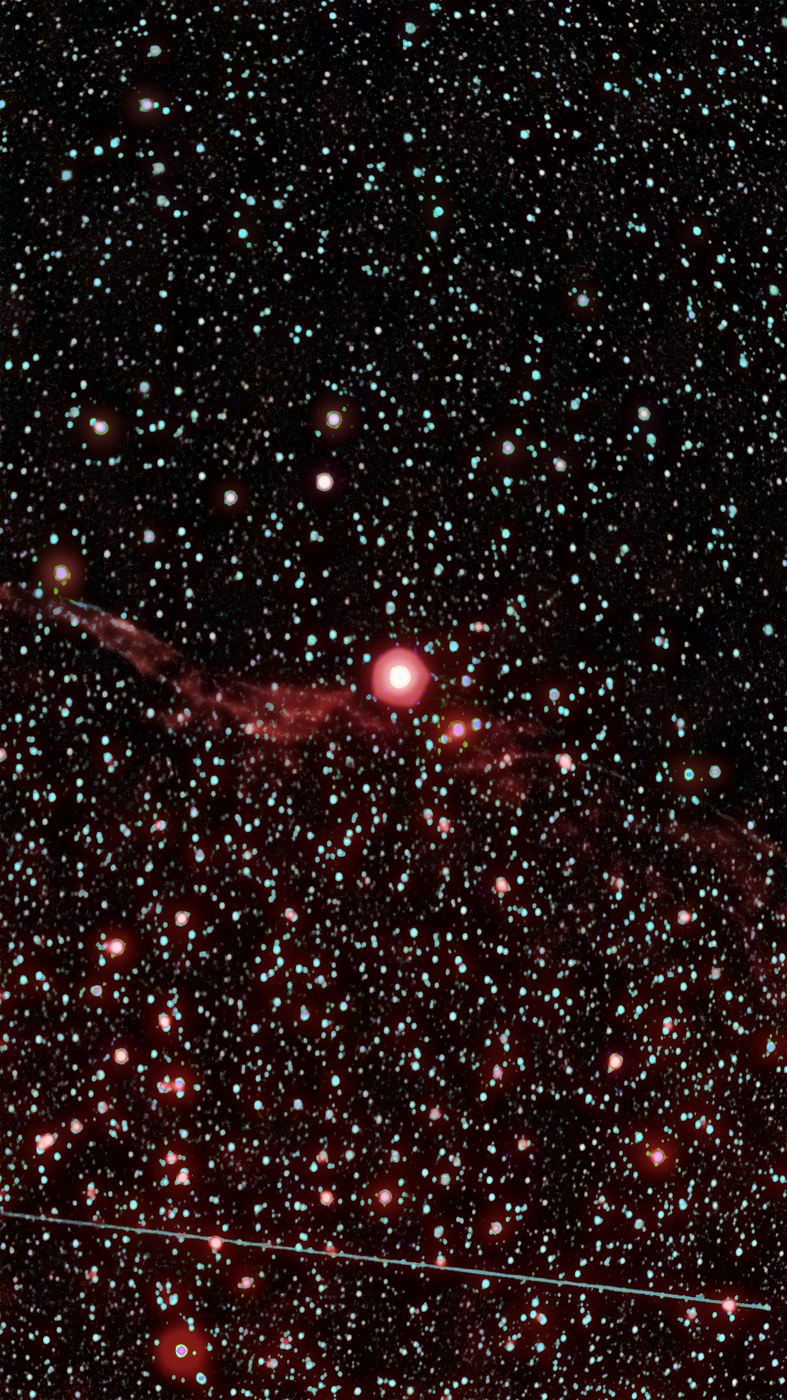
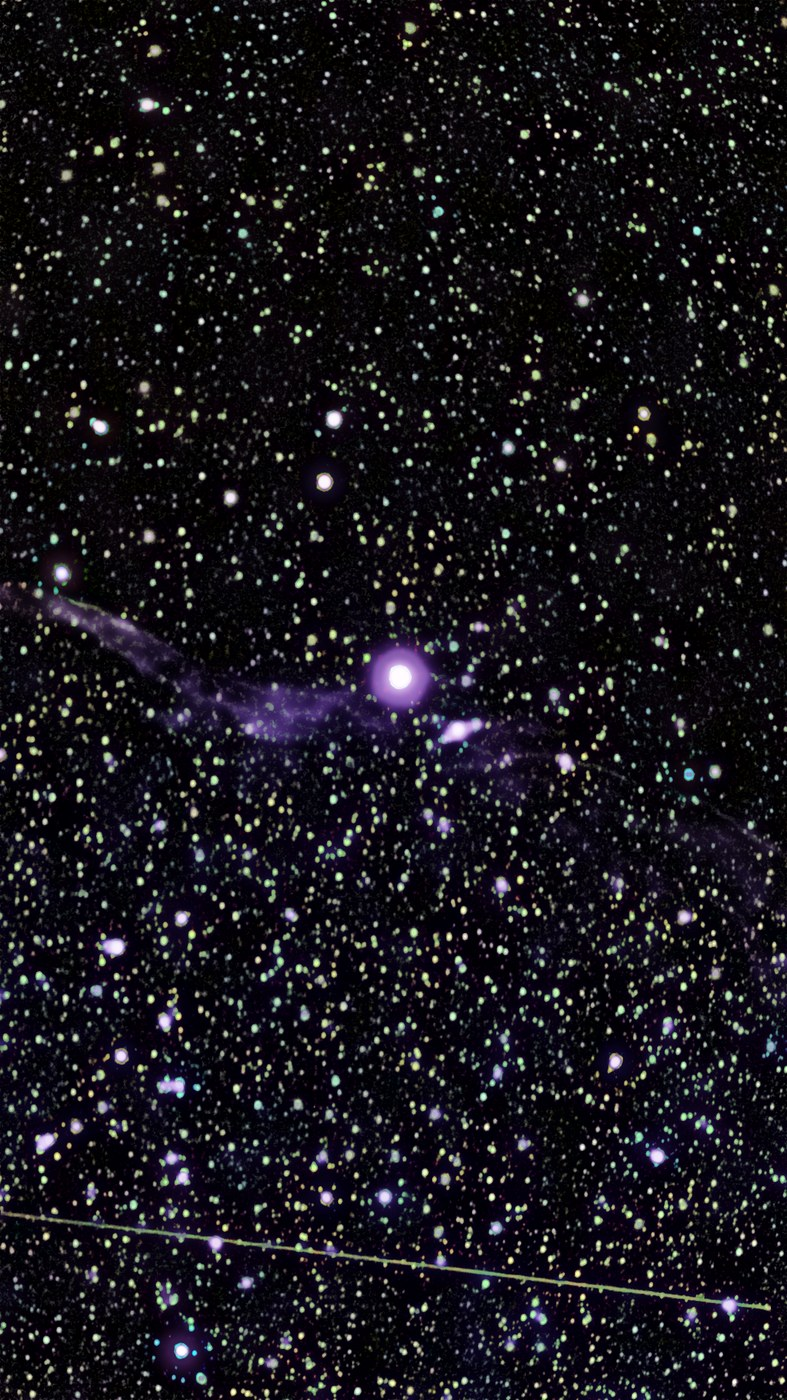
SPCC: G2V-neutral target + gain clamp + static CCM re-enabled
Three changes stacked together to tame the too-red output:

1. _gaia_to_target_rgb rewritten around a G2V solar reference: a
   star with BP-RP ≈ 0.82 renders as neutral grey; colour-index
   offset from solar (scaled by color_amplitude=0.08) shifts the
   target toward R or B. Matches Siril PCC's use of the Sun as
   photometric white reference. Raw Gaia flux ratios made even a
   G-type star look strongly R-biased, which then had SPCC
   over-boost R to compensate.

2. Diagonal-mode fit now clamps the per-channel gains to [0.85,
   1.20]. Catalogue stars get extincted (reddened) by Milky Way
   dust; an uncorrected fit reads that reddening as a sensor
   R-bias and over-corrects into blue. Clamping keeps the
   correction inside the range of real sensor miscalibrations.

3. Nebula profiles re-enable the static Seestar S50 CCM as a
   sensor-bias baseline. With SPCC now gentle (G2V target +
   clamped ±20%), it acts as fine-tuning on top of the static
   correction rather than a competing calibration. strength bumped
   to 0.85 since each step is individually bounded.

Refreshed docs/v2-samples with the fresh outputs. Tests still
110-passing.

Known issue this commit: outputs have swung blue/purple —
static-CCM cut + SPCC B-boost compound past neutral. Next
iteration will either drop the static CCM or cut SPCC strength
back further.

diff --git a/backend/app/stages/spcc.py b/backend/app/stages/spcc.py
@@ -329,32 +329,65 @@ def _measure_star_rgb(
 # ---------- Gaia → target RGB + CCM fit -------------------------------------
 
 
+# Solar-reference (G2V) Gaia colour index. The Sun at the top of
+# Earth's atmosphere is the natural "neutral white" for broadband
+# photography — and that's the colour Siril's PCC uses as its
+# reference when deciding where the white point lands. Using a raw
+# flux-ratio target instead (our first implementation) makes even
+# a solar-type star look red-biased because Gaia RP is much wider
+# than a camera's R filter; the SPCC fit then compensates by
+# aggressively boosting R.
+_G2V_BP_RP = 0.82
+
+
 def _gaia_to_target_rgb(
     g_mag: np.ndarray,
     bp_mag: np.ndarray,
     rp_mag: np.ndarray,
+    solar_reference_bp_rp: float = _G2V_BP_RP,
+    color_amplitude: float = 0.08,
 ) -> np.ndarray:
     """Convert Gaia BP/G/RP magnitudes to per-star target RGB fluxes.
 
-    Each magnitude becomes a flux via `f = 10 ** (-0.4 * mag)`; we
-    take RP as the red-channel proxy, G as the green, BP as the blue.
-    Flux ratios (not absolute fluxes) are what SPCC fits against, so
-    we normalise each star's (R, G, B) row to sum to 1 before
-    returning — two stars of the same colour temperature at different
-    brightness land at the same normalised vector.
+    Rather than using raw Gaia flux ratios directly (which are
+    strongly R-biased because RP passband extends well into the near
+    IR), we build a target in which a star of solar colour
+    (`BP - RP ≈ 0.82`) lands neutral. A star's colour index offset
+    from solar, scaled by `color_amplitude`, shifts the target toward
+    red or blue. This matches Siril PCC's approach of using the Sun
+    as the photometric white reference.
+
+    Output rows are row-normalised to sum to 1 so only colour ratio
+    matters.
+
+    Parameters
+    ----------
+    g_mag, bp_mag, rp_mag : ndarray
+        Gaia DR3 mean magnitudes per star.
+    solar_reference_bp_rp : float
+        BP - RP for neutral (1/3, 1/3, 1/3). 0.82 is the G2V value.
+    color_amplitude : float
+        Slope of the target's R/B channels vs. (BP-RP). 0.08 keeps a
+        typical main-sequence range (BP-RP ∈ [-0.2, 2.0]) well inside
+        the physically-plausible colour gamut after normalisation.
 
     Returns
     -------
     np.ndarray
         Shape `(N, 3)` float64 array of normalised (R, G, B) target
-        values per star. Each row sums to 1.
+        values per star; each row sums to 1. A solar-colour star
+        returns `(1/3, 1/3, 1/3)` exactly.
     """
-    flux_r = np.power(10.0, -0.4 * np.asarray(rp_mag, dtype=np.float64))
-    flux_g = np.power(10.0, -0.4 * np.asarray(g_mag, dtype=np.float64))
-    flux_b = np.power(10.0, -0.4 * np.asarray(bp_mag, dtype=np.float64))
-    rgb = np.stack([flux_r, flux_g, flux_b], axis=1)
+    bp_rp = np.asarray(bp_mag, dtype=np.float64) - np.asarray(rp_mag, dtype=np.float64)
+    offset = (bp_rp - float(solar_reference_bp_rp)) * float(color_amplitude)
+    r = 1.0 / 3.0 + offset
+    g = np.full_like(r, 1.0 / 3.0)
+    b = 1.0 / 3.0 - offset
+    rgb = np.stack([r, g, b], axis=1)
+    # Clamp so badly-out-of-sequence BP-RP (very rare) can't produce
+    # negative weights in the target.
+    rgb = np.clip(rgb, 1e-3, None)
     totals = rgb.sum(axis=1, keepdims=True)
-    totals = np.where(totals > 0, totals, 1.0)
     return rgb / totals
 
 
@@ -415,6 +448,15 @@ def _fit_ccm(
         mean_g = float(np.mean(gains))
         if mean_g > 1e-6:
             gains = gains / mean_g
+        # Clamp per-channel gains to [0.85, 1.20]. Catalog stars are
+        # extincted (reddened) through Milky Way dust, and the fit
+        # reads that reddening as a sensor R-bias — it then over-
+        # corrects by boosting B. Clamping keeps calibration within
+        # the range that real camera miscalibrations actually fall in
+        # (~±20 %) and prevents a star sample dominated by reddened
+        # stars from pulling the whole diffuse emission into the
+        # opposite hue.
+        gains = np.clip(gains, 0.85, 1.20)
         return np.diag(gains).astype(np.float64)
 
     # Full 3×3 lstsq.

diff --git a/backend/app/profiles.py b/backend/app/profiles.py
@@ -198,13 +198,15 @@ NEBULA_WIDE: Profile = {
     # each other and the result swings way too blue.
     "color": {
         **NEBULA["color"],
-        "ccm": None,
+        # Keep the static Seestar S50 CCM as the sensor-bias baseline
+        # so the raw IR-leak / RGGB-green offsets are pre-compensated
+        # before SPCC refines on top. With SPCC now running in G2V-
+        # neutral mode and clamped to ±20 % gain, it acts as fine
+        # tuning rather than a competing calibration — layering the
+        # two gives the most stable colour across targets.
+        "ccm": "seestar_s50",
         "wb_strength": 0.0,
-        # SPCC already shifts chroma via the fitted gains; running a
-        # hard SCNR on top of that pushes green completely out and
-        # leaves R/B ratios skewed. Gentle SCNR is enough to tame
-        # residual Seestar green without fighting SPCC.
-        "green_clip": 0.15,
+        "green_clip": 0.25,
     },
     "stretch": {
         "black_percentile": 3.0,
@@ -232,7 +234,7 @@ NEBULA_WIDE: Profile = {
     # RP band is wider / extends further into the IR than a camera's
     # red filter. Dialling back lets us keep the SPCC star-match
     # direction without overcooking the result.
-    "spcc": {"min_matches": 20, "strength": 0.45},
+    "spcc": {"min_matches": 20, "strength": 0.85},
     # Wide nebulae don't benefit much from star split — the diffuse
     # signal is too embedded in the star field for median-based
     # separation to help cleanly — but the split also doesn't hurt,
@@ -251,7 +253,9 @@ NEBULA_FILAMENT: Profile = {
     # drop the static CCM, WB, and post-stretch channel_gains.
     "color": {
         **NEBULA["color"],
-        "ccm": None,
+        # Same rationale as NEBULA_WIDE — static Seestar CCM stays
+        # as baseline, SPCC fine-tunes on top.
+        "ccm": "seestar_s50",
         "wb_strength": 0.0,
         "green_clip": 0.3,
     },
@@ -279,7 +283,7 @@ NEBULA_FILAMENT: Profile = {
     # a slightly stronger SPCC application than nebula_wide. Still
     # dialled well back from 1.0 for the same Gaia-bands-vs-camera
     # mismatch reason explained in the NEBULA_WIDE profile above.
-    "spcc": {"min_matches": 20, "strength": 0.5},
+    "spcc": {"min_matches": 20, "strength": 0.85},
     # Smaller radius so the filament's ~5-8 px narrow structure isn't
     # caught by the median filter as a "star" — keeps it in the
     # starless layer where it can be stretched aggressively.
